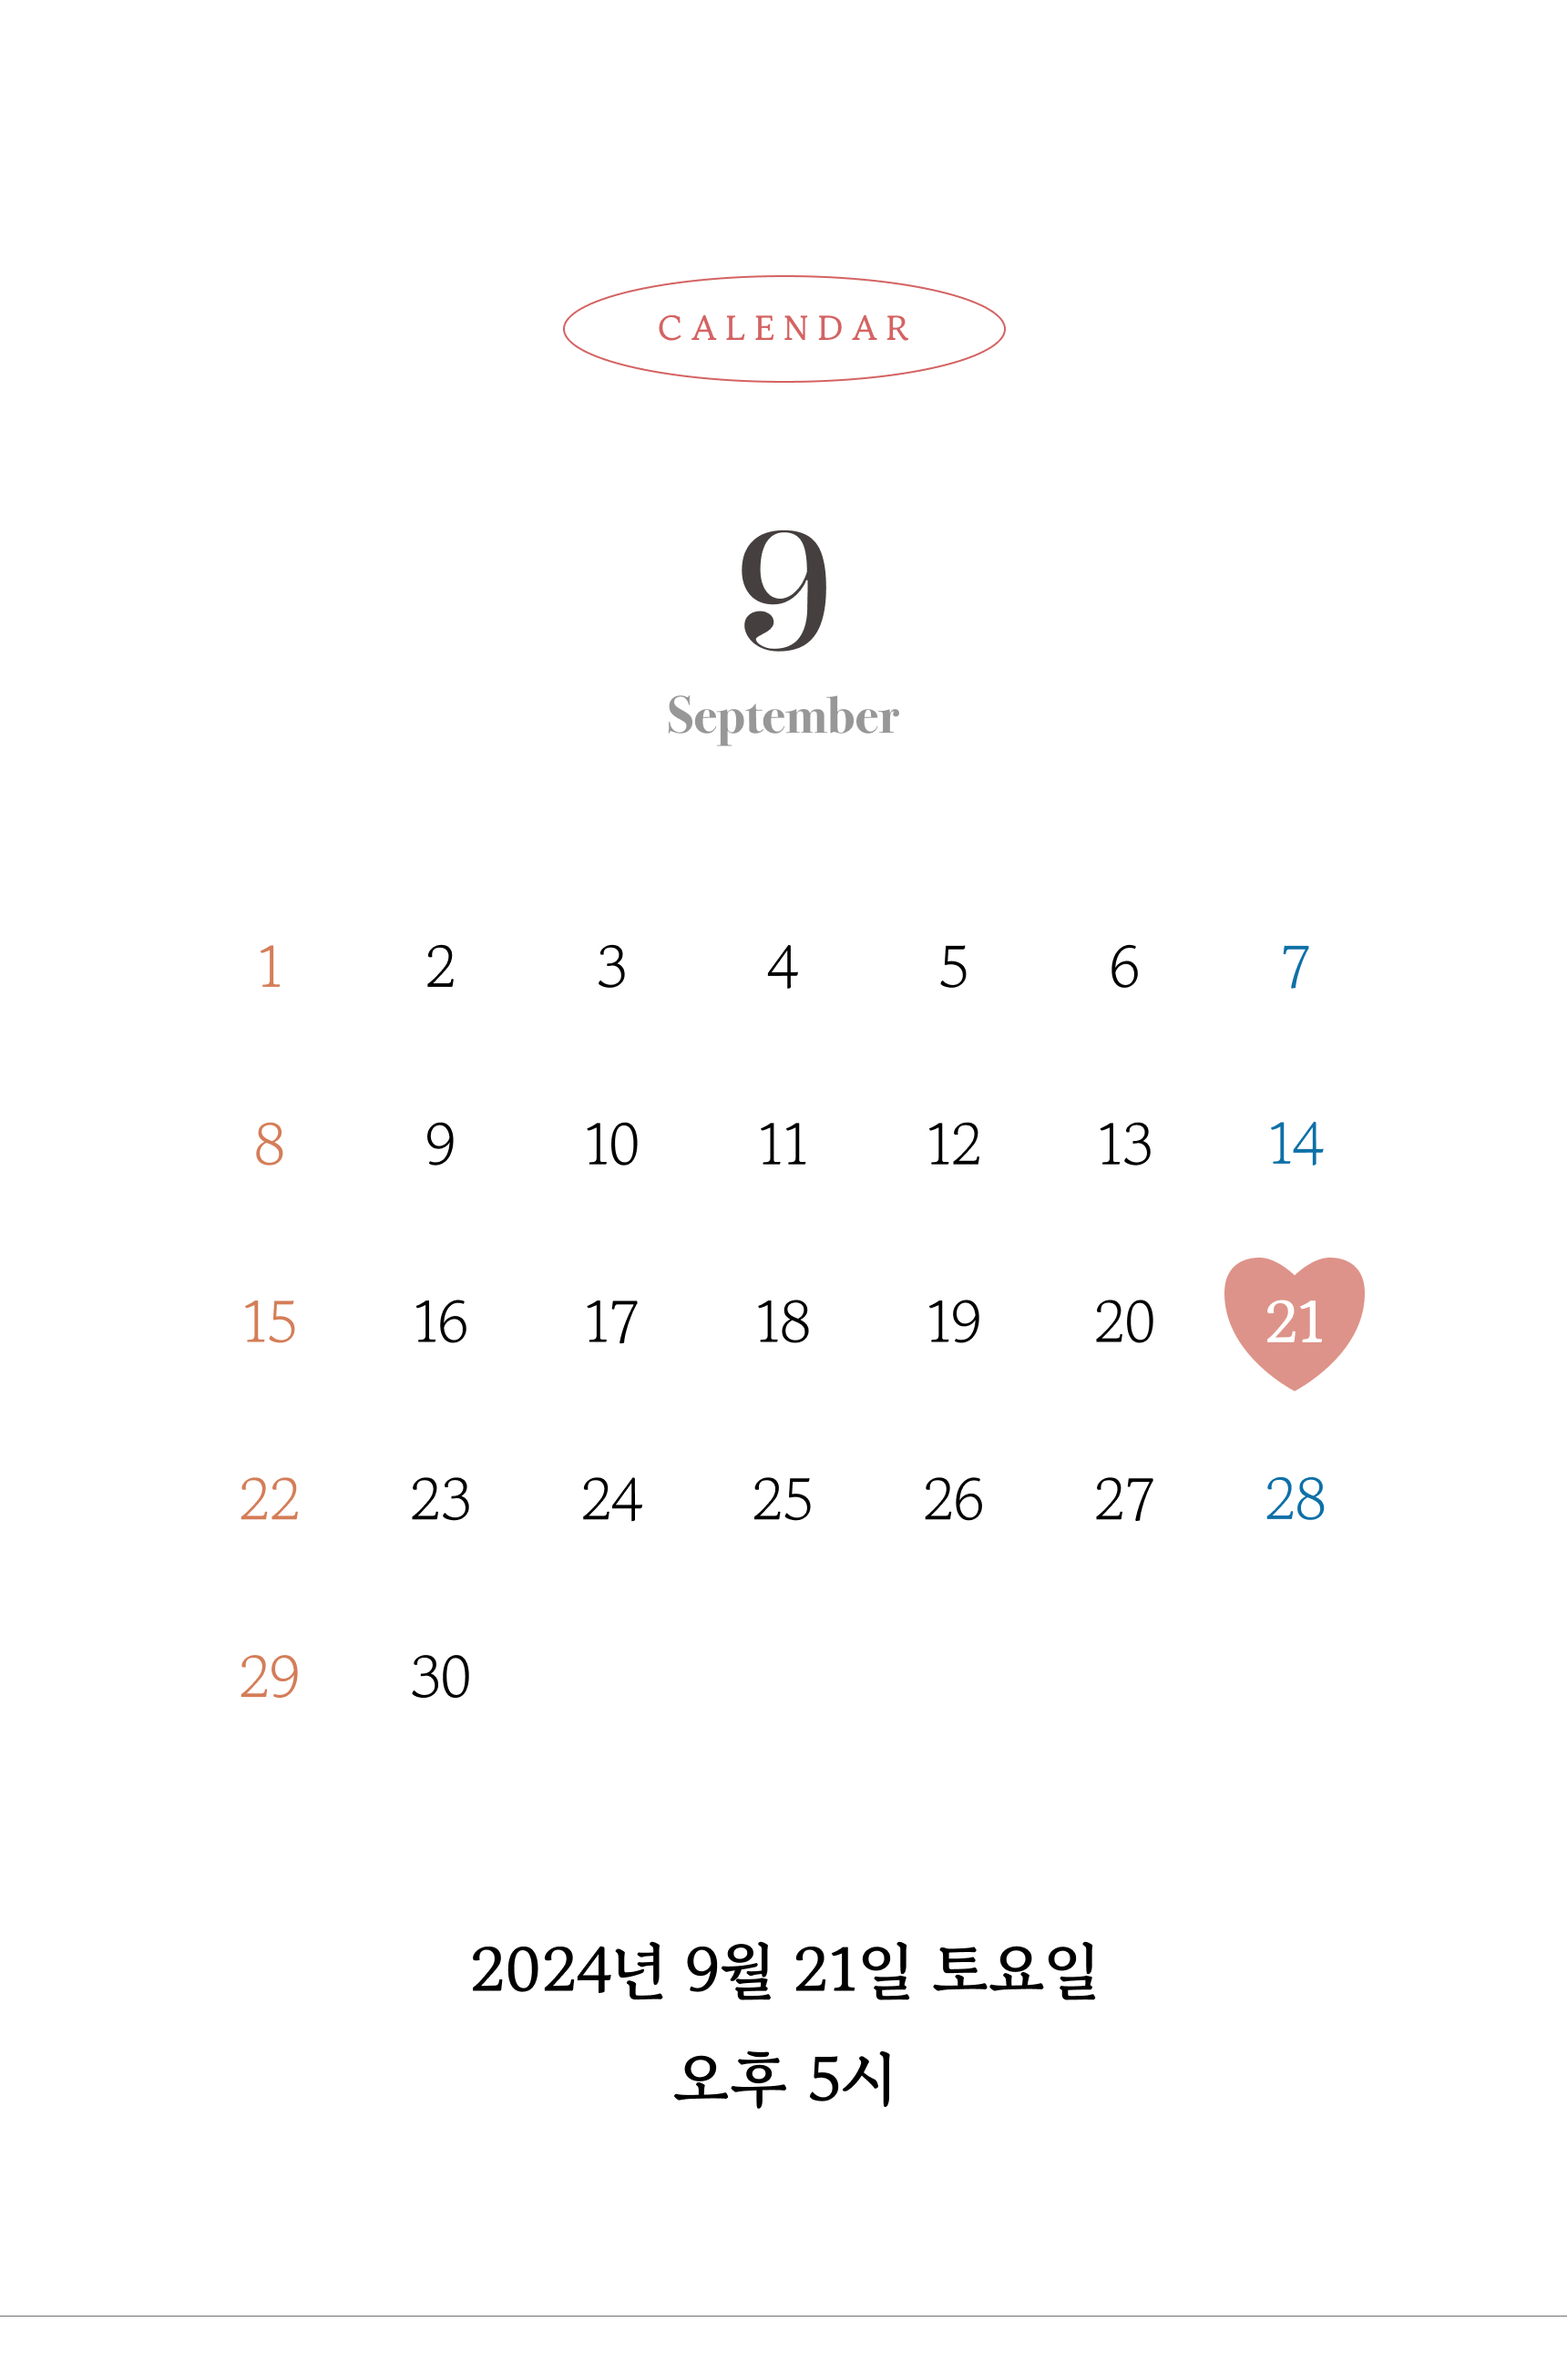
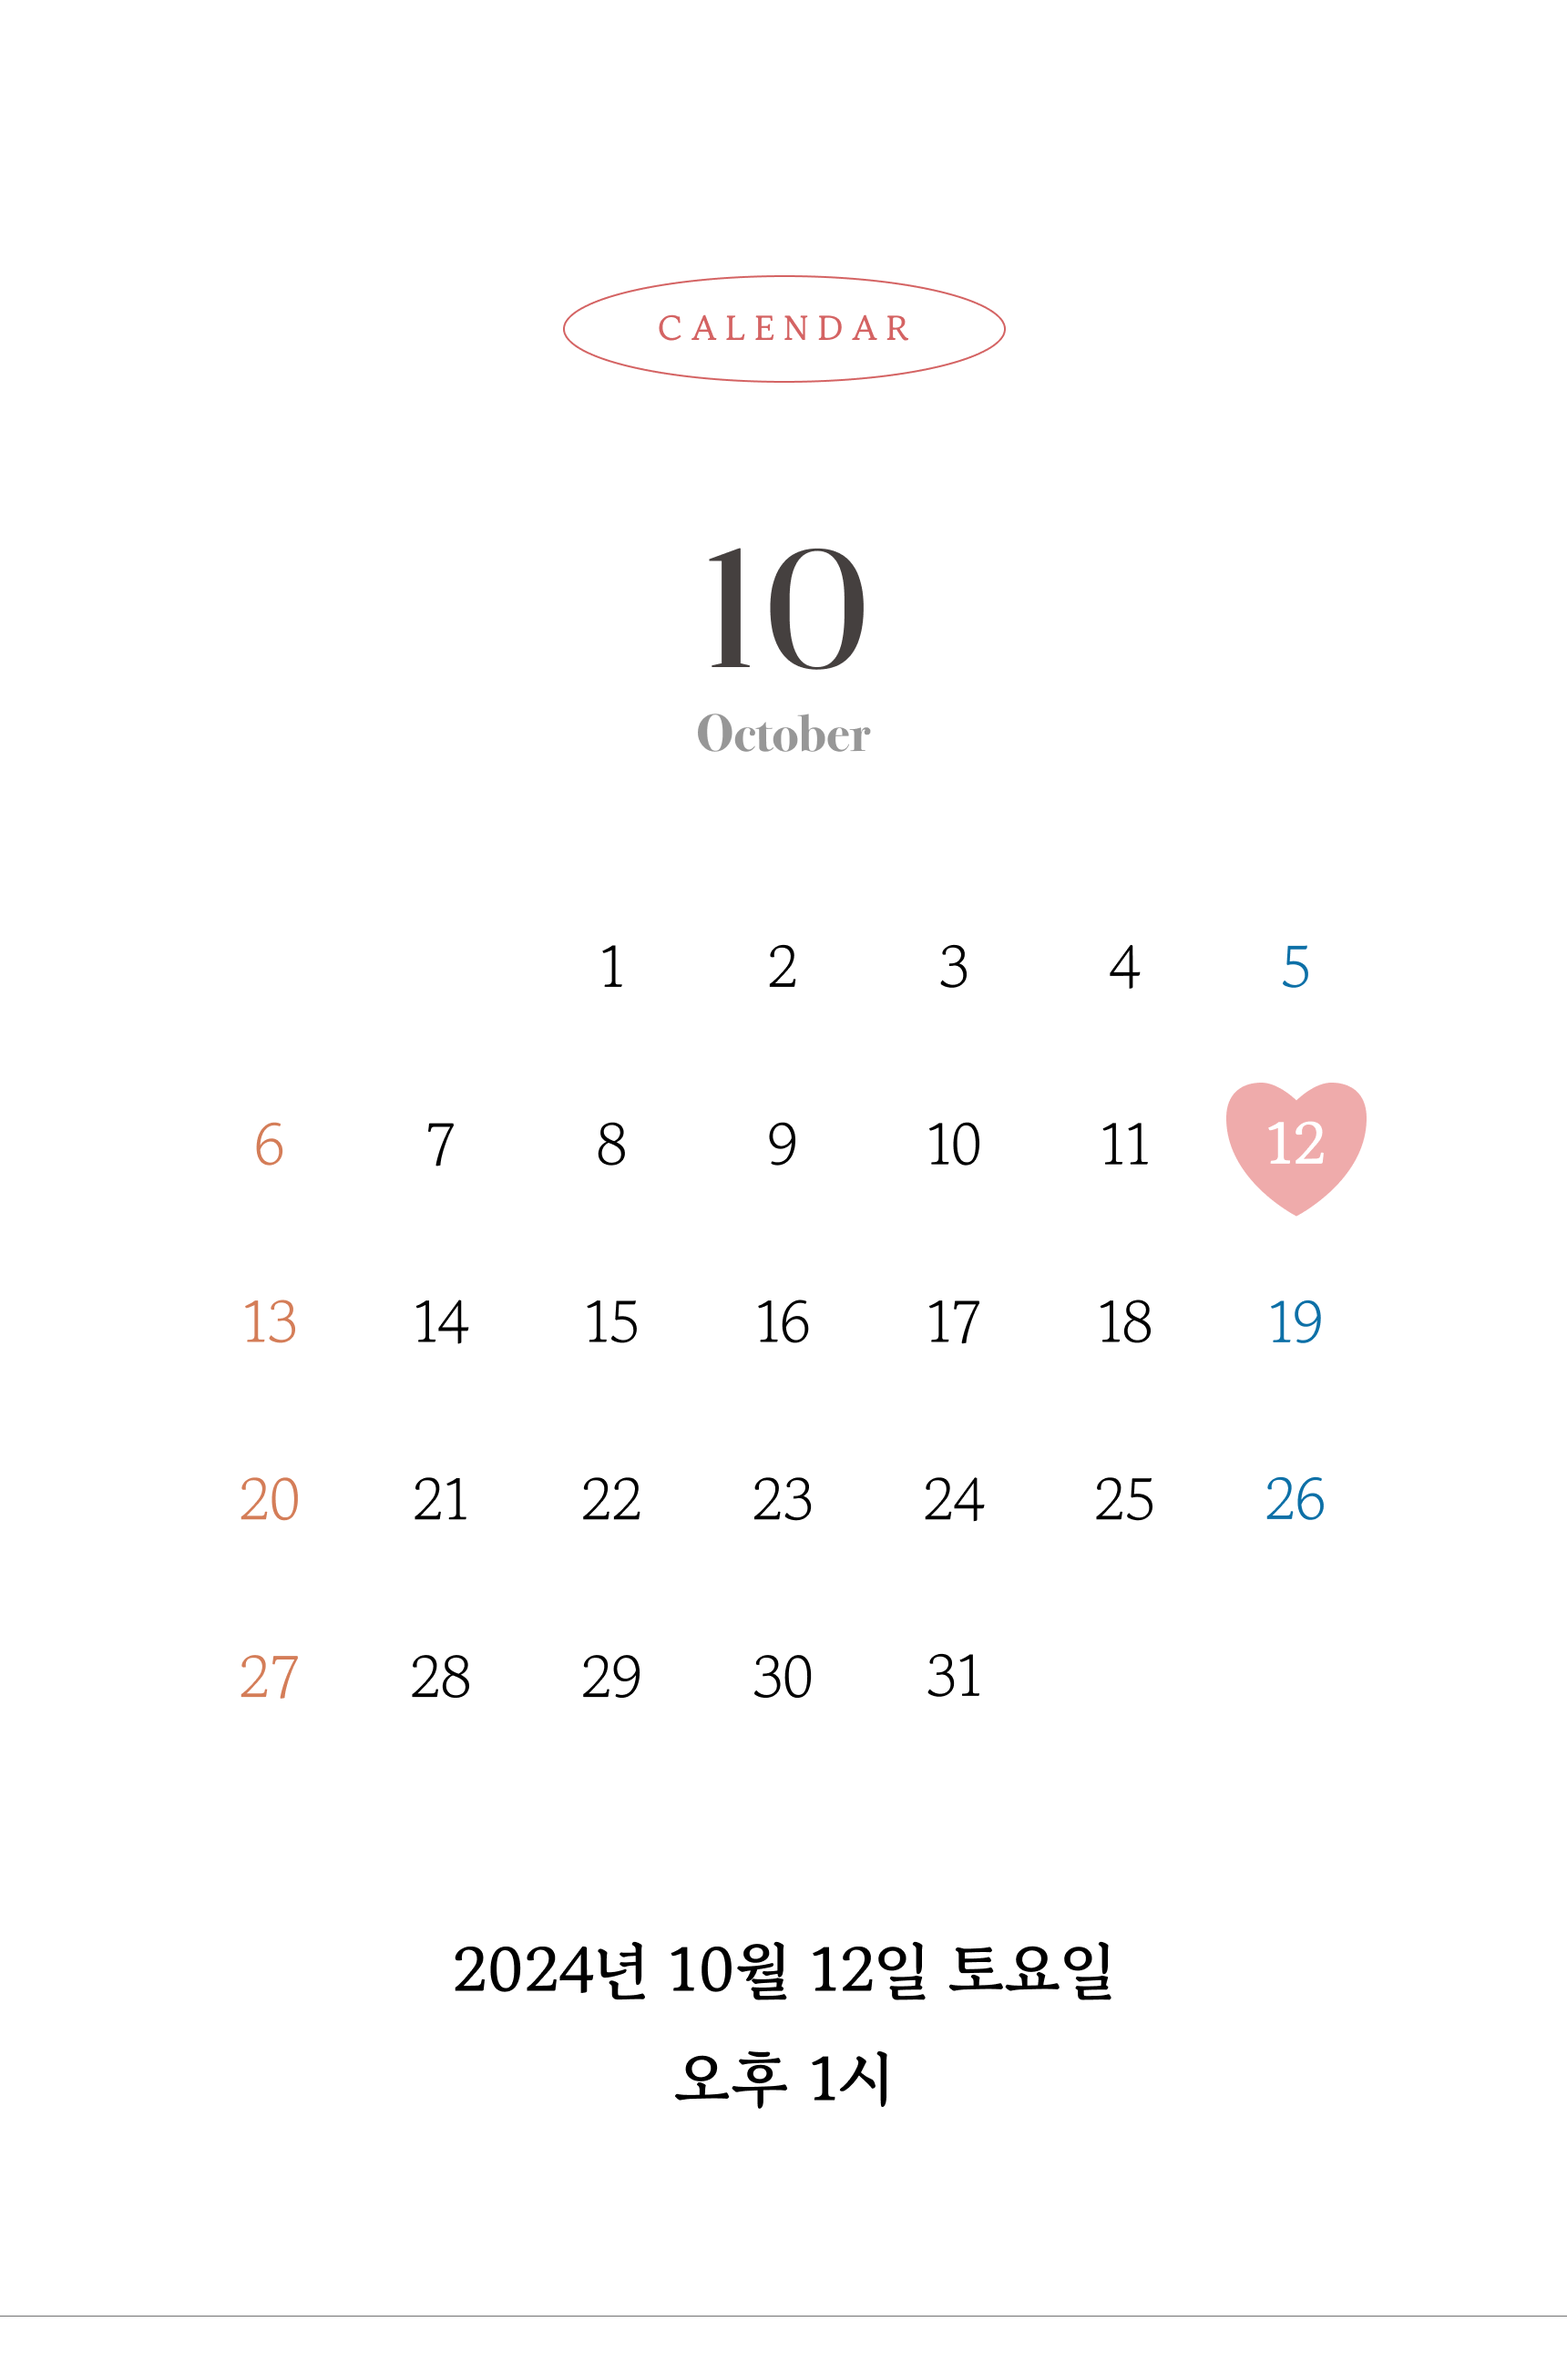
초본

diff --git a/index.html b/index.html
@@ -5,19 +5,19 @@
   <meta charset="utf-8" />
   <link rel="icon" href="/img/heart_icon.png" />
   <meta name="viewport" content="width=device-width" />
-  <title>최준빈 ♥ 이정서의 결혼식에 초대합니다.</title>
+  <title>김세훈 ♥ 장은지의 결혼식에 초대합니다.</title>
   <meta http-equiv="X-UA-Compatible" content="IE=edge, chrome=1" />
   <meta name="viewport"
     content="width=device-width,initial-scale=1.0,maximum-scale=1.0,minimum-scale=1.0,user-scalable=no,target-densitydpi=medium-dpi" />
   <meta name="robots" content="index,follow" />
   <meta name="googlebot" content="index,follow" />
   <meta name="description" content="결혼식에 초대합니다♡" />
-  <link rel="canonical" href="https://mo8.luvle.co.kr" />
-  <meta property="og:url" content="https://mo8.luvle.co.kr" />
-  <meta property="og:title" content="최준빈 ♥ 이정서의 결혼식에 초대합니다." />
+  <link rel="canonical" href="https://mo10.luvle.co.kr" />
+  <meta property="og:url" content="https://mo10.luvle.co.kr" />
+  <meta property="og:title" content="김세훈 ♥ 장은지의 결혼식에 초대합니다." />
   <meta property="og:description" content="결혼식에 초대합니다♡" />
   <meta property="og:image" content="https://i.imgur.com/ItUlt6i.png" />
-  <meta property="og:site_name" content="최준빈 ♥ 이정서의 결혼식에 초대합니다." />
+  <meta property="og:site_name" content="김세훈 ♥ 장은지의 결혼식에 초대합니다." />
   <script src="https://cdn.tailwindcss.com"></script>
   <link rel="stylesheet" type="text/css" href="style.css" />
   <link href="https://webfontworld.github.io/yangheeryu/GowunBatang.css" rel="stylesheet" />
@@ -83,16 +83,16 @@
             <div id="weddingDesc">
               <div style="line-height: 40px;">
                 <p id="parentInfo">
-                  <span style="font-size: large">최영근 · 조혜숙</span>
+                  <span style="font-size: large">김수일 · 정미숙</span>
                   <span>
                     <span>의</span>
                     <span style="
                           font-size: large;
                           min-width: 3rem;
                           display: inline-block;
-                        ">차남</span>
+                        ">장남</span>
                   </span>
-                  <span style="font-size: large">최준빈</span>
+                  <span style="font-size: large">김세훈</span>
                   <span style="
                         font-size: large;
                         display: inline-block;
@@ -113,16 +113,16 @@
                   </script>
                 </p>
                 <p id="parentInfo">
-                  <span style="font-size: large">이평무 · 윤은숙</span>
+                  <span style="font-size: large">장지영 · 김항분</span>
                   <span>
                     <span>의</span>
                     <span style="
                           font-size: large;
                           min-width: 3rem;
                           display: inline-block;
-                        ">차녀</span>
+                        ">장녀</span>
                   </span>
-                  <span style="font-size: large">이정서</span>
+                  <span style="font-size: large">장은지</span>
                   <span style="
                         font-size: large;
                         display: inline-block;
@@ -249,21 +249,21 @@
                     text-align: center;
                     line-height: 1.5rem;
                   ">
-                <p>대전 동구 회남로 57-54</p>
+                <p>서울 동대문구 청량리동 회기로 37</p>
                 <p style="font-weight: 600; color: #000000">
-                  플레이스플로라
+                  한국국방연구원
                 </p>
               </div>
               <div class="weddinghall-call-info">
                 <button id="weddingHallCallButton">
                   <img src="img/call.png" alt="전화" style="width: 10px; height: 10px" />
-                  <p id="weddingHallCallP">0507 - 1318 - 8001</p>
+                  <p id="weddingHallCallP">02 - 967 - 4911</p>
                 </button>
                 <script>
                   document
                     .getElementById("weddingHallCallButton")
                     .addEventListener("click", function () {
-                      var phoneNumber = "0507-1318-8001";
+                      var phoneNumber = "02-967-4911";
                       window.location.href = "tel:" + phoneNumber;
                     });
                 </script>
@@ -280,8 +280,8 @@
             var mapContainer = document.getElementById("map"), // 지도를 표시할 div
               mapOption = {
                 center: new kakao.maps.LatLng(
-                  36.35240839810688,
-                  127.49618059233298
+                  37.59247022539116,
+                  127.04124097725156
                 ), // 지도의 중심좌표
                 level: 3, // 지도의 확대 레벨
               };
@@ -301,8 +301,8 @@
 
             // 마커가 표시될 위치입니다
             var markerPosition = new kakao.maps.LatLng(
-              36.35240839810688,
-              127.49618059233298
+              37.59247022539116,
+              127.04124097725156
             );
 
             // 마커를 생성합니다
@@ -319,7 +319,7 @@
         <!-- map 길찾기 -->
         <div class="animate-on-scroll" id="MapIconDiv" style="background-color: #E0BDBD;">
           <div>
-            <a class="maplink" href="https://kko.to/RSGSWW5SUz">
+            <a class="maplink" href="https://kko.to/NCrasWYfCe">
               <div>
                 <button id="kakaoMapButton" type="button">
                   <!-- <img
@@ -378,7 +378,7 @@
             </button>
             <div class="panel">
               <ul>
-                <li><strong>신랑 최준빈 : </strong>농협은행 302-0349-5319-91</li>
+                <li><strong>신랑 김세훈 : </strong>농협은행 302-0349-5319-91</li>
                 <li><strong>혼주 최영근 : </strong>우리은행 1002-236-458863</li>
                 <li><strong>혼주 조혜숙 : </strong>농협은행 691182-56-033379</li>
               </ul>
@@ -389,7 +389,7 @@
             </button>
             <div class="panel">
               <ul>
-                <li><strong>신부 이정서 : </strong>카카오뱅크 3333-15-2141840</li>
+                <li><strong>신부 장은지 : </strong>카카오뱅크 3333-15-2141840</li>
                 <li><strong>혼주 이평무 : </strong>산업은행 020-3119-7668-730</li>
                 <li><strong>혼주 윤은숙 : </strong>국민은행 696302-01-091730</li>
 

diff --git a/gallery.js b/gallery.js
@@ -46,22 +46,22 @@ window.onload = () => {
     Kakao.Share.sendDefault({
       objectType: "feed",
       content: {
-        title: "최준빈 ♥ 이정서의 모바일 청첩장",
+        title: "김세훈 ♥ 장은지의 모바일 청첩장",
         description: "결혼식에 초대합니다♡",
         imageUrl: "https://i.imgur.com/ItUlt6i.png",
         imageWidth: 1200,
         imageHeight: 630,
         link: {
-          mobileWebUrl: "https://mo8.luvle.co.kr",
-          webUrl: "https://mo8.luvle.co.kr",
+          mobileWebUrl: "https://mo10.luvle.co.kr",
+          webUrl: "https://mo10.luvle.co.kr",
         },
       },
       buttons: [
         {
           title: "자세히 보기",
           link: {
-            mobileWebUrl: "https://mo8.luvle.co.kr",
-            webUrl: "https://mo8.luvle.co.kr",
+            mobileWebUrl: "https://mo10.luvle.co.kr",
+            webUrl: "https://mo10.luvle.co.kr",
           },
         },
       ],

diff --git a/newGallery.js b/newGallery.js
@@ -45,22 +45,22 @@ window.onload = () => {
     Kakao.Share.sendDefault({
       objectType: "feed",
       content: {
-        title: "최준빈 ♥ 이정서의 모바일 청첩장",
+        title: "김세훈 ♥ 장은지의 모바일 청첩장",
         description: "결혼식에 초대합니다♡",
         imageUrl: "https://i.imgur.com/ItUlt6i.png",
         imageWidth: 1200,
         imageHeight: 630,
         link: {
-          mobileWebUrl: "https://mo8.luvle.co.kr",
-          webUrl: "https://mo8.luvle.co.kr",
+          mobileWebUrl: "https://mo10.luvle.co.kr",
+          webUrl: "https://mo10.luvle.co.kr",
         },
       },
       buttons: [
         {
           title: "자세히 보기",
           link: {
-            mobileWebUrl: "https://mo8.luvle.co.kr",
-            webUrl: "https://mo8.luvle.co.kr",
+            mobileWebUrl: "https://mo10.luvle.co.kr",
+            webUrl: "https://mo10.luvle.co.kr",
           },
         },
       ],

diff --git a/countdown.js b/countdown.js
@@ -1,7 +1,7 @@
 document.addEventListener("DOMContentLoaded", function () {
   function updateCountdown() {
     // 결혼 날짜 설정 (년, 월(0부터 시작), 일, 시, 분)
-    const weddingDate = new Date(2024, 8, 21, 17, 0); // 예시: 2024년 10월 12일
+    const weddingDate = new Date(2024, 9, 12, 13, 0); // 예시: 2024년 10월 12일
 
     const currentDate = new Date();
     const timeDifference = weddingDate - currentDate;
